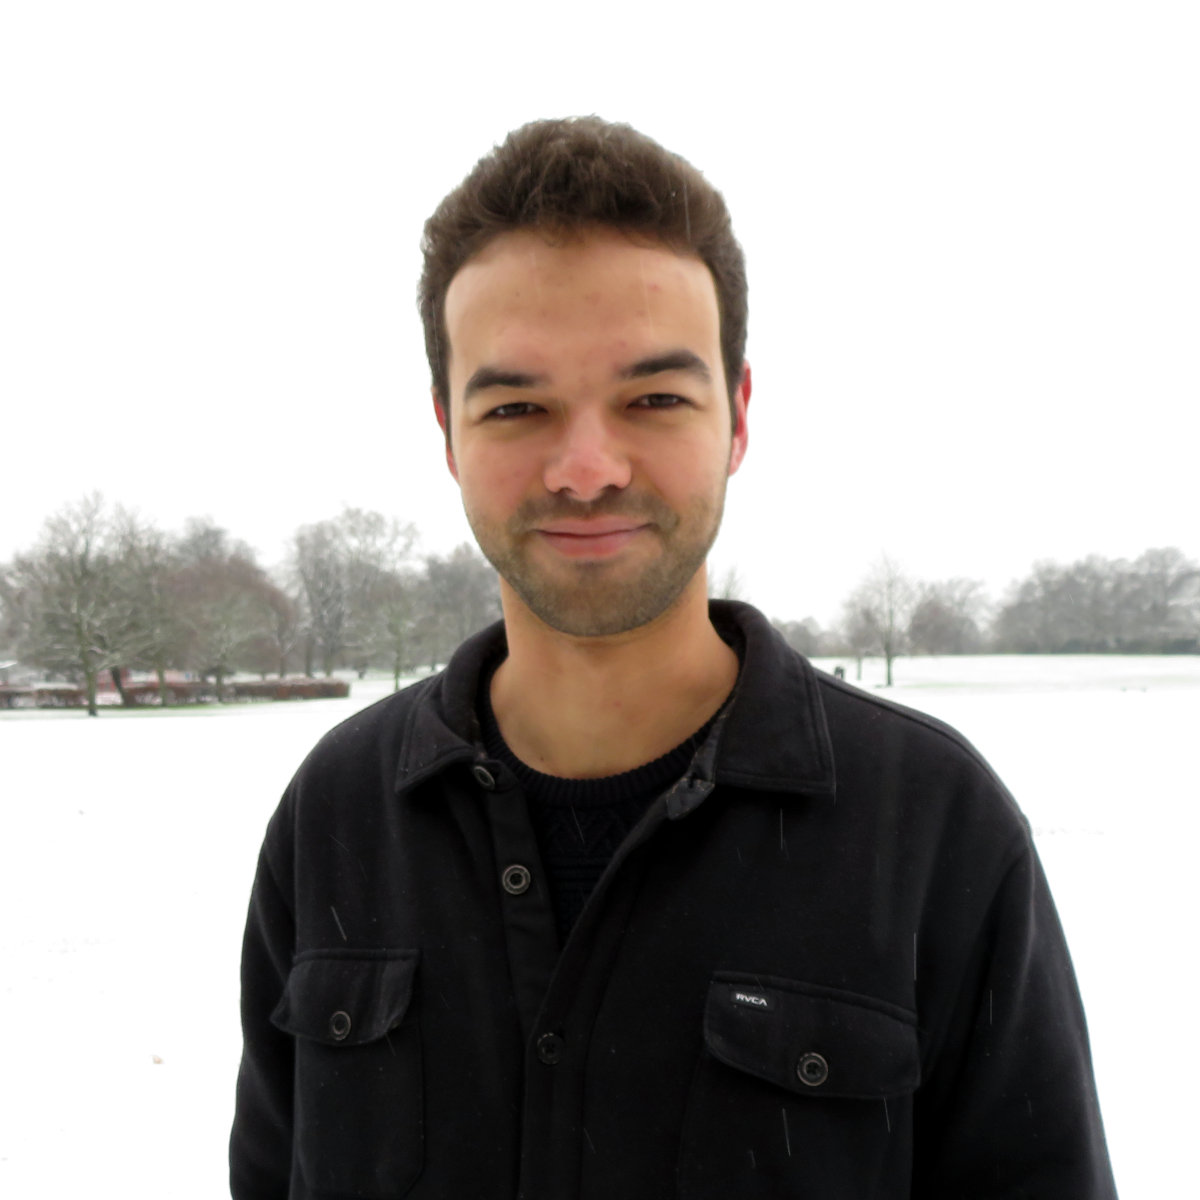
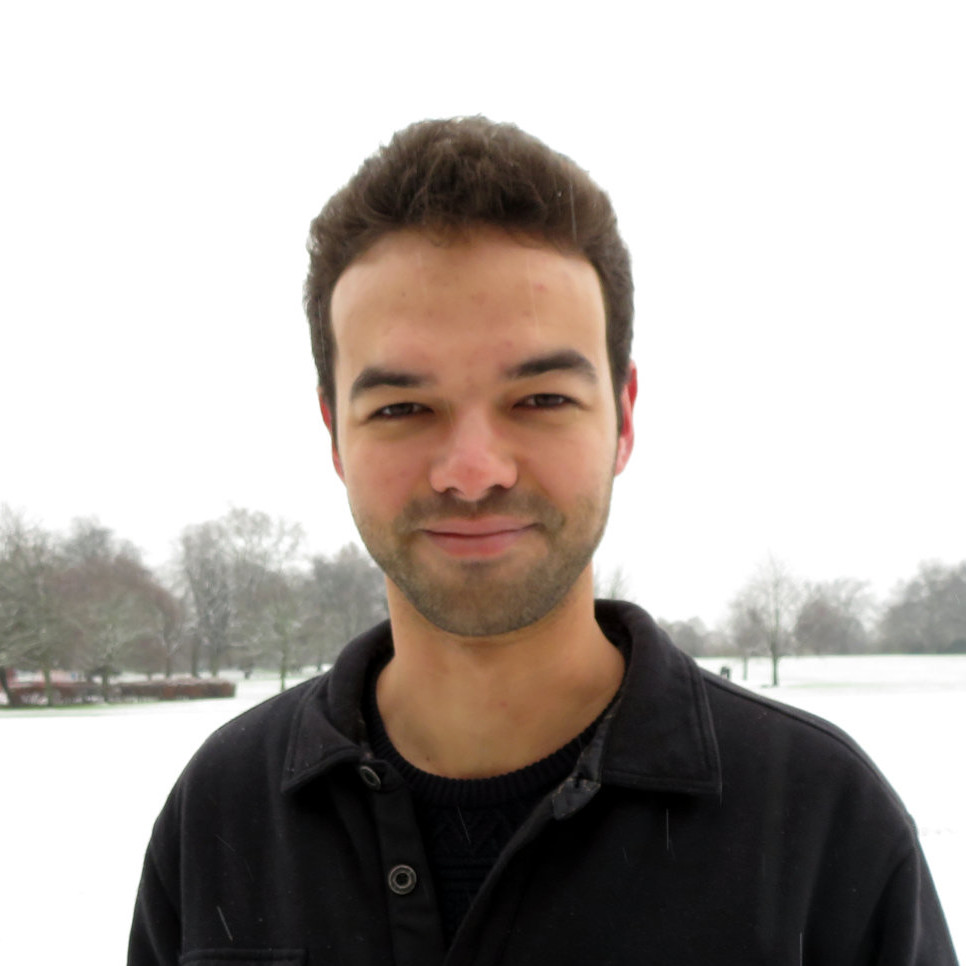
Update bio

diff --git a/_authors/sebastian-coetzee.md b/_authors/sebastian-coetzee.md
@@ -6,6 +6,6 @@ jobtitle:   "Software Engineer, Restaurants"
 portrait:   "/images/portraits/sebastian-coetzee.jpg"
 ---
 
-I started my career as a Chemical Engineer but then decided to trade stainless steel pipes for Unix pipes. I worked at various startups in Cape Town before moving to London. Now I'm a software engineer in the Restaurants team at Deliveroo.
+I started my career as a Chemical Engineer but then decided to trade stainless steel pipes for Unix pipes. I worked at various startups in Cape Town before moving to London. Now I'm a Software Engineer in the Restaurants team at Deliveroo.
 
 You can find me on Twitter as [@SebCoetzee](https://twitter.com/SebCoetzee).
